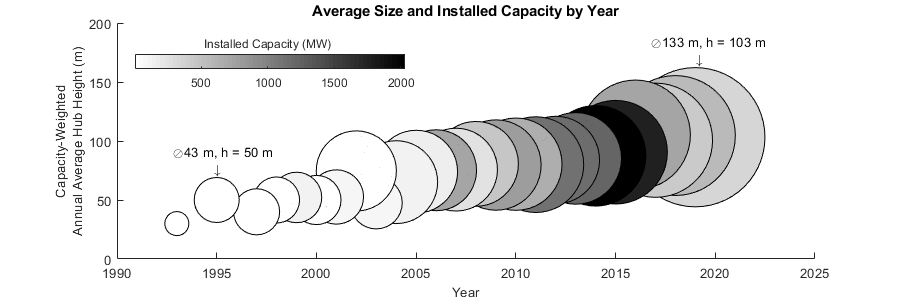
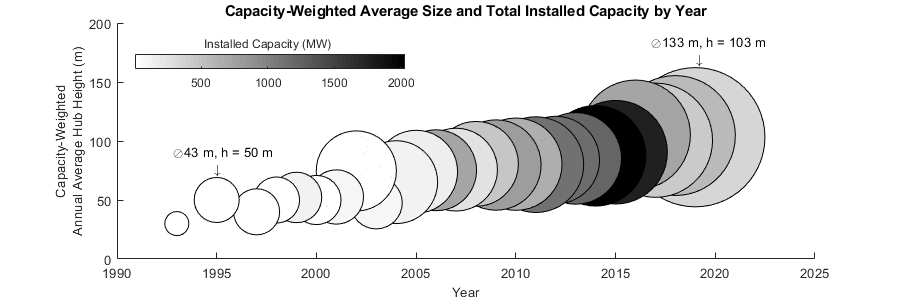
More descriptive chart title

Changed region(s): [[0.2489, 0.0, 0.7778, 0.06]]

diff --git a/May 12, 2020/turbine_size.m b/May 12, 2020/turbine_size.m
@@ -24,7 +24,7 @@ function turbine_size
 % See also: N/A
 % Author: Will Noel
 % email: wnoel@ualberta.ca
-% May 2020; Last revision: 12-May-2020
+% May 2020; Last revision: 14-May-2020
 %------------- BEGIN CODE --------------
 
 % Read in .csv datafile, extract data, close table
@@ -68,7 +68,7 @@ xlabel('Year','FontSize',10);
 ylabel({'Capacity-Weighted';'Annual Average Hub Height (m)'},'FontSize',10);
 xlim([1990 2025]);
 ylim([0 200]);
-title('Average Size and Installed Capacity by Year');
+title('Capacity-Weighted Average Size and Total Installed Capacity by Year');
 % Window size
 set(gcf,'Position',[200 500 900 300]); % [xpos ypos width height]
 % Colorbar
